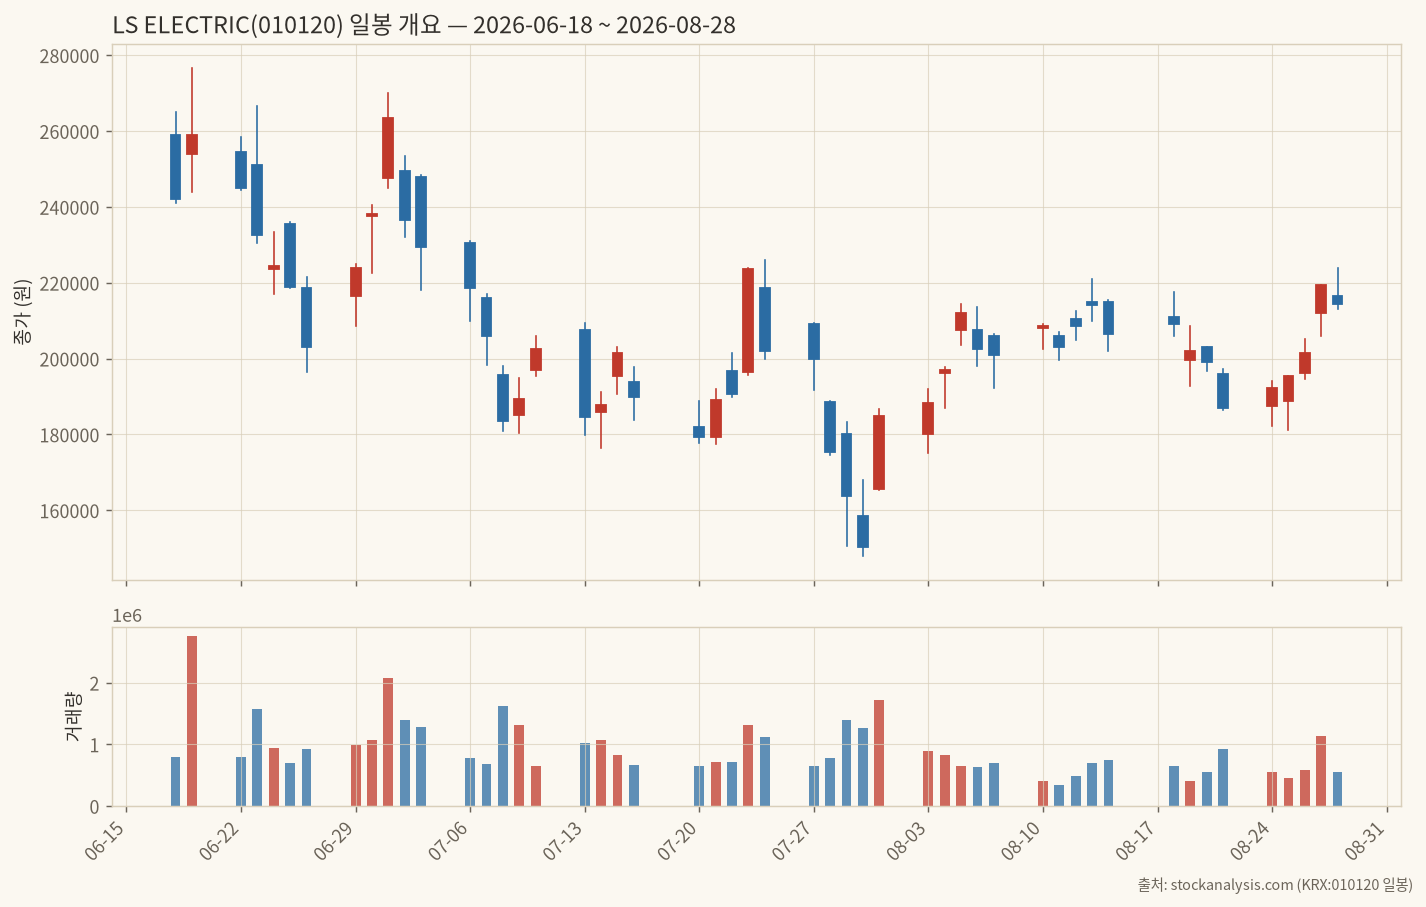
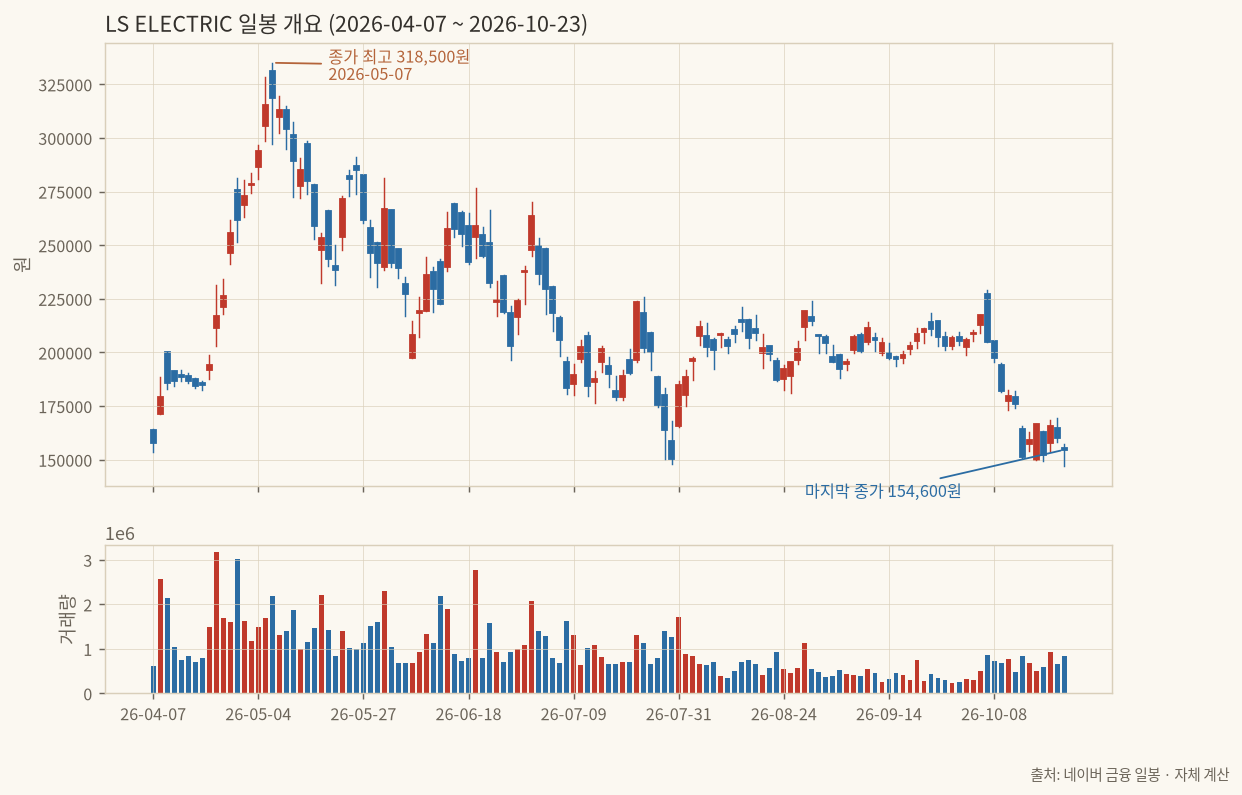
study(N67): publish LS ELECTRIC Parabolic SAR

diff --git a/content/study/lselec-parabolic-sar.md b/content/study/lselec-parabolic-sar.md
@@ -1,0 +1,147 @@
+---
+title: "LS ELECTRIC, 고점 대비 51.46% 빠지는 동안 13번 뒤집힌 추세선: 파라볼릭 SAR (Parabolic SAR: LS ELECTRIC, a Trend Line That Reversed 13 Times During a 51.46% Slide)"
+description: "LS ELECTRIC 일봉 131거래일에 파라볼릭 SAR을 직접 계산하고 반전 신호 13회를 전수 검증했다. Parabolic SAR on LS ELECTRIC flipped 13 times in a 51.46% drawdown, and only 2 signals were right."
+date: 2026-10-24T08:50:00+09:00
+draft: false
+markets: ["stock"]
+tags: ["지표스터디", "기술적지표", "코스피", "자동매매", "에너지", "LS ELECTRIC"]
+summary: "SAR 반전 13회 중 방향이 맞은 것은 2회뿐이었고, 매수 신호 6회는 전부 손실이었다."
+---
+
+## 서론: 추세가 없는 구간에서 추세 추종 지표를 돌리면
+
+파라볼릭 SAR은 웰스 와일더가 1978년에 내놓은 지표다. 이름의 SAR은 Stop And Reverse, 곧 손절선이자 방향 전환선이라는 뜻이다. 가격 아래나 위에 점을 하나씩 찍어 가면서, 가격이 그 점을 건드리면 포지션을 뒤집으라고 알려 준다. 점은 시간이 갈수록 가격 쪽으로 가속해서 다가온다. 그래서 추세가 길게 이어질 때는 이익을 지키는 후행 손절선 노릇을 한다. 반대로 가격이 옆으로 흔들리면 점에 계속 걸려 신호만 쏟아 낸다.
+
+LS ELECTRIC은 이 지표의 약점을 보기에 알맞은 종목이다. 2026-05-07에 종가 318,500원으로 고점을 찍은 뒤 흘러내렸고, 7월 말에 바닥을 다진 듯하다가 다시 10월에 급락했다. 큰 추세 하나와 넓은 박스권, 그리고 마지막 급락이 한 구간에 다 들어 있다. SAR이 추세장에서 얼마나 쓸모 있고 횡보장에서 얼마나 망가지는지 한 번에 대조할 수 있다.
+
+<div class="term">
+<div class="term-bar"><i></i><i></i><i></i><em>이 글의 데이터 범위</em></div>
+<pre><code><span class="w">종목</span>      LS ELECTRIC (010120)
+<span class="w">구간</span>      2026-04-07 ~ 2026-10-23 (유효 131거래일)
+<span class="w">출처</span>      네이버 금융 일봉 (두 엔드포인트 교차검증본)
+<span class="c">--------------------------------------------------</span>
+<span class="w">시작 종가</span>  157,600원
+<span class="w">최고 종가</span>  318,500원 (2026-05-07)
+<span class="w">최고 고가</span>  335,000원 (2026-05-07)
+<span class="w">최저 종가</span>  150,300원 (2026-07-30)
+<span class="w">마지막 종가</span> 154,600원 (2026-10-23)
+<span class="w">낙폭</span>      <span class="r">-51.46%</span> (최고 종가 대비 마지막 종가)</code></pre>
+</div>
+
+수집본에서 2026-04-08부터 04-10까지 사흘은 거래량이 0이고 가격이 움직이지 않은 줄이라 계산에서 뺐다. 마지막 봉인 10-23은 장중 부분 세션일 수 있어서, 그날 거래량으로는 아무 주장도 하지 않는다. 종가와 저가는 그 시점 수집값이다.
+
+> 이 글은 과거 데이터를 계산한 학습 기록이며 투자 권유가 아니다.
+
+![LS ELECTRIC 일봉 개요](/img/study/lselec-01-overview.png)
+
+## 본론: 계산, 실측, 검증
+
+### 계산식
+
+SAR은 전일 값에 가속계수 곱하기 극값과의 거리를 더해서 구한다. 극값은 현재 추세에서 가장 멀리 간 고가(상승 추세) 또는 저가(하락 추세)다. 가속계수는 극값이 갱신될 때마다 한 단계씩 올라가다가 상한에서 멈춘다.
+
+<div class="term">
+<div class="term-bar"><i></i><i></i><i></i><em>Parabolic SAR 계산식</em></div>
+<pre><code><span class="w">SAR(t)</span> = SAR(t-1) + AF(t-1) x ( EP(t-1) - SAR(t-1) )
+<span class="c">--------------------------------------------------</span>
+<span class="w">EP</span>   상승 추세면 추세 시작 이후 최고가, 하락 추세면 최저가
+<span class="w">AF</span>   시작 0.02, 극값 갱신 때마다 +0.02, 상한 0.20
+<span class="c"> </span>
+<span class="w">상승 추세</span>  SAR은 직전 두 봉의 저가보다 높아질 수 없다
+<span class="w">하락 추세</span>  SAR은 직전 두 봉의 고가보다 낮아질 수 없다
+<span class="c"> </span>
+<span class="w">반전</span>  상승 추세에서 저가가 SAR 아래로 내려가면 하락 전환
+      하락 추세에서 고가가 SAR 위로 올라가면 상승 전환
+<span class="w">전환 직후</span>  SAR = 직전 추세의 EP, AF = 0.02 로 초기화</code></pre>
+</div>
+
+numpy만으로 구현했고 지표 라이브러리는 쓰지 않았다. 첫 봉의 방향은 둘째 봉의 중간값(고가와 저가의 합)이 첫 봉보다 높은지 낮은지로 정했다. 이 초기 방향은 임의 가정이라, 첫 반전이 나오기 전까지의 점은 믿을 값이 못 된다. 실제로 첫 반전이 확정된 날은 2026-05-12이고, 거기까지 봉이 20개 지나야 했다. 131거래일 중 15%가 넘는 구간에서는 신호가 없었다는 뜻이다.
+
+### 파라미터를 이렇게 골랐다
+
+기본값 0.02, 0.02, 0.20을 그대로 썼다. 와일더 원전의 값이고 대부분의 차트 프로그램이 같은 값을 쓰기 때문에, 이 종목에 맞춰 손으로 고른 흔적을 남기고 싶지 않았다. 대신 뒤에서 세 가지 다른 설정으로 흔들어 보고 결론이 버티는지 확인했다. 수익률은 모두 반전일 종가에서 다음 반전일 종가까지로 계산했다. 실제 SAR 체결가는 장중 어디일지 모르고 수수료와 세금도 빠져 있어서, 실거래 손익은 이 숫자보다 나쁘게 나온다.
+
+![Parabolic SAR 점과 반전 13회](/img/study/lselec-02-sar-dots.png)
+
+### 반전 13회를 전수로 놓는다
+
+기본값에서 반전은 모두 13번 나왔다. 상승 전환(매수 신호)이 6번, 하락 전환(매도 신호)이 7번이다. 구간 평균 지속 기간은 8.5거래일이었다. 신호를 방향까지 반영해 채점하면 이렇다.
+
+<div class="term">
+<div class="term-bar"><i></i><i></i><i></i><em>반전 신호 13회 (종가 기준)</em></div>
+<pre><code><span class="w"> #  날짜        신호   반전일 종가  다음 반전  방향 수익률</span>
+<span class="c">--------------------------------------------------</span>
+<span class="g"> 1  05-12       매도   289,000원    285,000원    +1.38%</span>
+<span class="r"> 2  05-26       매수   285,000원    241,500원   -15.26%</span>
+<span class="r"> 3  05-29       매도   241,500원    257,500원    -6.63%</span>
+<span class="r"> 4  06-15       매수   257,500원    224,500원   -12.82%</span>
+<span class="r"> 5  06-24       매도   224,500원    263,500원   -17.37%</span>
+<span class="r"> 6  07-01       매수   263,500원    206,000원   -21.82%</span>
+<span class="r"> 7  07-07       매도   206,000원    223,500원    -8.50%</span>
+<span class="r"> 8  07-23       매수   223,500원    175,500원   -21.48%</span>
+<span class="r"> 9  07-28       매도   175,500원    212,000원   -20.80%</span>
+<span class="r">10  08-05       매수   212,000원    197,500원    -6.84%</span>
+<span class="r">11  09-14       매도   197,500원    211,000원    -6.84%</span>
+<span class="r">12  09-22       매수   211,000원    197,200원    -6.54%</span>
+<span class="g">13  10-08       매도   197,200원    154,600원   +21.60%</span></code></pre>
+</div>
+
+13번 가운데 방향이 맞은 신호는 1번과 13번, 딱 두 번이다. 열한 번은 빗나갔다. 13번은 마지막 봉까지의 값이라 아직 닫히지 않은 신호다. 다음 반전이 나오면 숫자가 달라질 수 있다.
+
+매수 신호만 따로 보면 더 나쁘다. 6번이 전부 손실이었고 평균은 -14.13%다. 차례로 복리로 이으면 -60.51%가 된다. 사고팔기를 계속 뒤집는 전략(항시 반전)으로 13번을 다 따라 했다면 누적 -74.64%다. 이 구간에서 종목이 시작 종가 대비 -1.90%밖에 변하지 않았다는 점을 생각하면, 지표를 따라 한 쪽이 오히려 가만히 있던 쪽보다 훨씬 나빴다.
+
+![신호별 방향 반영 수익률](/img/study/lselec-03-signal-returns.png)
+
+### 맞은 신호와 빗나간 신호
+
+맞은 1번은 사실 지표의 공이 크지 않다. 05-07 고점 뒤 3거래일 만에 나온 하락 전환인데, 반전일 종가 289,000원은 최고 종가보다 이미 9.26% 아래이고 최고 고가보다는 13.73% 아래다. 방향은 맞았지만 고점에서 내려온 뒤에 신호가 도착했다. 이 신호를 따라 짧게 판 사람이 번 몫은 1.38%에 그쳤다.
+
+13번은 반대로 인상적이다. 10-08 종가 197,200원에 하락 전환이 나온 뒤 마지막 봉까지 -21.60%가 더 빠졌다. 추세가 한 방향으로 길게 밀릴 때 SAR이 어떤 지표인지 보여 주는 구간이다. 다만 한 번 맞았다는 사실이 앞의 열한 번을 지워 주지는 않는다.
+
+빗나간 쪽에서 가장 아픈 것은 9번과 10번이다. 07-28에 종가 175,500원에서 매도 신호가 나왔는데, 바닥(종가 150,300원, 07-30)은 이틀 뒤였다. 8월 5일에 나온 매수 신호의 종가는 212,000원이어서, 종가 바닥 대비 41.05% 오른 뒤에야 매수 신호가 켜졌다. 이후 이 상승 추세는 27거래일을 버텨 가장 길었지만, 그 끝인 09-14 종가는 197,500원으로 반전일보다 6.84% 낮았다. 바닥에서 놓치고 중간에서 사서 손실로 끝난 것이다.
+
+
+가장 짧게 끝난 구간도 눈여겨볼 만하다. 2번(05-26 매수)과 8번(07-23 매수)은 둘 다 3거래일 만에 다시 뒤집혔고, 그 사이 종가는 각각 15.26%, 21.48% 빠졌다. 매수 신호를 받고 사흘 안에 손실이 15%를 넘은 셈이다. 점이 가격 가까이에 있다고 해서 손절폭이 작다는 보장은 없다. 반전이 일어나는 날 종가는 SAR 값과 8.88%에서 43.24%까지 떨어져 있었다. 점은 직전 추세의 극값에서 출발하기 때문에, 하락이 급했던 뒤에 켜진 매수 신호는 처음부터 현재가와 멀리 떨어진 곳에 손절선을 놓고 시작한다. 구간 전체로는 상승 추세 표시가 73봉, 하락 추세 표시가 58봉이었다. 점이 가격 아래에 있던 날이 더 많았는데도 가격은 반토막 났다는 사실이 이 지표의 후행성을 그대로 보여 준다.
+
+### 파라미터를 바꾸면
+
+같은 데이터에 가속계수를 흔들어 보았다.
+
+<div class="term">
+<div class="term-bar"><i></i><i></i><i></i><em>민감도: 시작 / 증가 / 상한</em></div>
+<pre><code><span class="w">설정            반전  맞음  매수 복리   항시 반전</span>
+<span class="c">--------------------------------------------------</span>
+0.01 / 0.01 / 0.10    5     2   -26.67%   -14.29%
+0.02 / 0.02 / 0.10   11     2   -53.40%   -68.20%
+0.02 / 0.02 / 0.20   13     2   -60.51%   -74.64%
+0.03 / 0.03 / 0.30   13     2   -60.24%   -73.17%</code></pre>
+</div>
+
+가속계수를 낮추면 반전은 5번으로 줄고 손실도 줄어든다. 점이 느리게 따라붙으니 잔 흔들림에 덜 걸리기 때문이다. 그래도 맞은 신호는 어느 설정에서나 2번이었다. 빠르게 만들어도, 느리게 만들어도 이 종목의 5월 이후 구간에서는 매수 신호가 이익을 낸 적이 없다. 설정의 문제라기보다는 구간 자체가 추세 추종에 불리했다고 보는 편이 맞다. 5번만 나온 설정도 항시 반전에서 -14.29%를 냈다.
+
+![가속계수별 반전 위치 비교](/img/study/lselec-04-sensitivity.png)
+
+### 봇 게이트에 넣을 것인가
+
+단독 진입 신호로는 넣지 않는다. 이 구간의 채점표가 이유를 말해 준다. 다만 완전히 버리지도 않는다. 이미 보유한 포지션의 후행 손절선으로는 쓸 만하다. 13번처럼 한 방향으로 밀리는 국면에서 점이 가격 위를 따라 내려오는 모습은, 손절선을 기계적으로 끌어내리는 용도로 일관성이 있다. 진입은 다른 지표에 맡기고, SAR은 추세 필터가 먼저 추세 있음을 확인한 뒤에만 켜는 구조라면 시험해 볼 만하다. 이 시험은 아직 하지 않았다.
+
+## 결론: 남는 것과 남은 숙제
+
+이번 구간에서 건질 것은 두 가지다. 하나는 추세 추종 지표를 횡보 구간에 그냥 쓰면 신호가 거래비용만 늘린다는 점이다. 8.5거래일마다 뒤집히는 신호에는 손익 기대값이 없다. 다른 하나는 SAR이 이긴 날이 어떤 날이었는지다. 고점 뒤 3거래일째, 그리고 10월 급락 초입. 둘 다 이미 추세가 시작된 뒤에 신호가 왔고, 그 뒤에 추세가 계속 이어진 경우에만 점수를 땄다.
+
+윌리엄 오닐은 손실이 7~8%를 넘기 전에 자르라고 했다. 이 구간의 매수 신호 6번 중 4번은 그 한도를 한참 넘겨서야 다음 반전이 나왔다. SAR을 손절선으로 쓰려면 SAR 값 자체가 아니라 허용 손실폭을 따로 정해 같이 걸어야 한다는 뜻으로 읽었다. 이 해석이 맞는지는 다른 종목에서 같은 계산을 해 봐야 안다.
+
+마지막 봉은 하락 추세 점이 186,602원에 놓여 있고, 종가 154,600원은 그보다 한참 아래다. 이 신호가 다음 반전 때 몇 번째 빗나간 신호로 기록될지는 아직 모른다. 가속계수를 더 낮춘 설정과 평균진폭(ATR) 필터를 붙인 변형은 다음에 같은 종목으로 다시 계산해 볼 숙제로 남긴다.
+
+> 이 글은 학습 목적의 기록이며 투자 권유나 수익 보장이 아니다. 투자 판단과 손익의 책임은 투자자 본인에게 있다.
+
+---
+
+## 약어 풀이
+
+\* 이 글에 나온 영어 약어를 풀어 둔다.
+
+- **SAR** (Stop And Reverse): 정지 후 반전. 가격 위나 아래에 점을 찍어 손절선과 방향 전환 시점을 함께 알려 주는 와일더의 지표.
+- **AF** (Acceleration Factor): 가속계수. 극값이 갱신될 때마다 커져서 SAR 점이 가격에 다가가는 속도를 정한다.
+- **EP** (Extreme Point): 극값. 현재 추세에서 가장 멀리 간 고가 또는 저가.
+- **ATR** (Average True Range): 평균진폭. 일정 기간 가격이 하루에 평균 얼마나 움직였는지 재는 변동성 지표.
